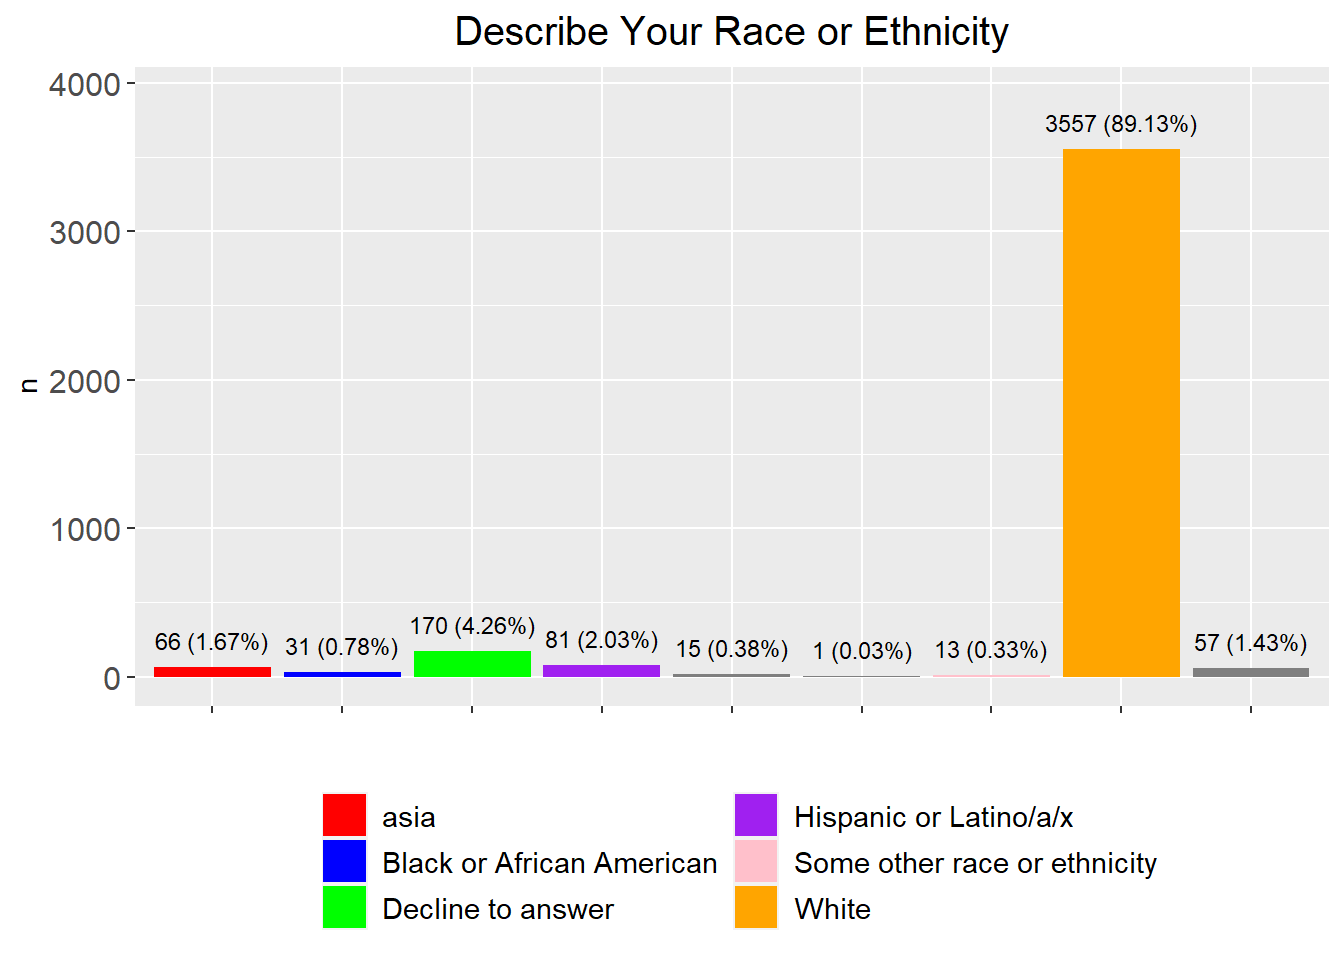
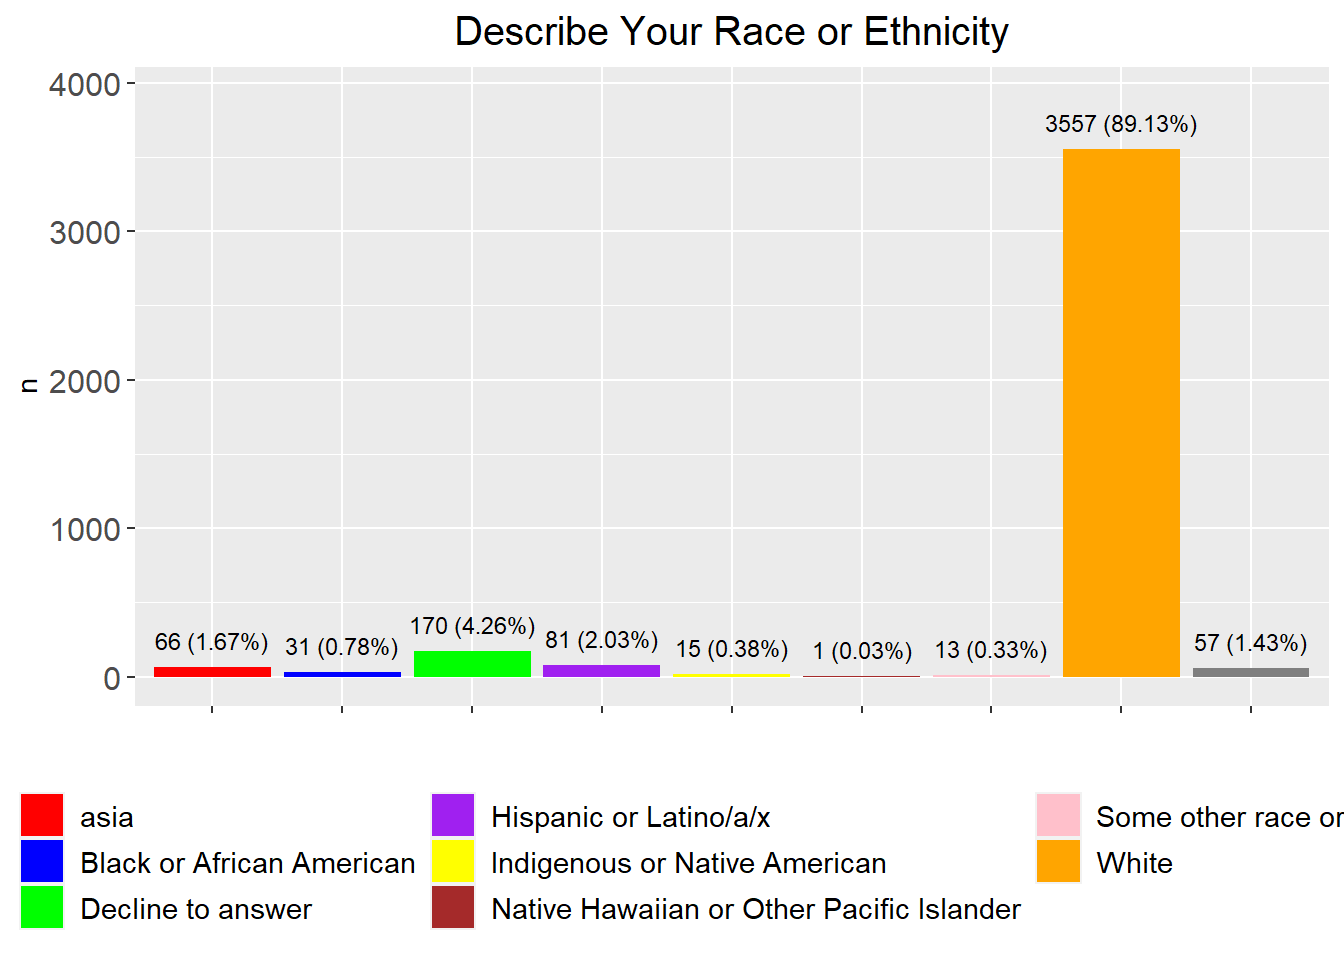
1/10/2025

Changed region(s): [[0.0, 0.8125, 1.0, 0.9688]]

diff --git a/docs/2024_0701_survey_part2.html b/docs/2024_0701_survey_part2.html
@@ -416,7 +416,7 @@ aria-hidden="true"></span> </a>
 <div class="tab-content">
 <div id="summary" class="tab-pane fade in active">
 <p>
-<strong>Last updated:</strong> 2025-01-08
+<strong>Last updated:</strong> 2025-01-10
 </p>
 <p>
 <strong>Checks:</strong> <span
@@ -550,15 +550,15 @@ project makes it easier to run your code on other machines.</p>
 <div class="panel panel-default">
 <div class="panel-heading">
 <p class="panel-title">
-<a data-toggle="collapse" data-parent="#workflowr-checks" href="#strongRepositoryversionstrongahrefhttpsgithubcomhan16Collaborationstreefe962788d596cc7b8bc2eed3f1c836c4f511facctargetblankfe96278a">
+<a data-toggle="collapse" data-parent="#workflowr-checks" href="#strongRepositoryversionstrongahrefhttpsgithubcomhan16Collaborationstree5993c9d48d632dda4a9aa40119dea4e136be8175targetblank5993c9da">
 <span class="glyphicon glyphicon-ok text-success"
 aria-hidden="true"></span> <strong>Repository version:</strong>
-<a href="https://github.com/han16/Collaborations/tree/fe962788d596cc7b8bc2eed3f1c836c4f511facc" target="_blank">fe96278</a>
+<a href="https://github.com/han16/Collaborations/tree/5993c9d48d632dda4a9aa40119dea4e136be8175" target="_blank">5993c9d</a>
 </a>
 </p>
 </div>
 <div
[2 lines of base64/hex data omitted]
 class="panel-collapse collapse">
 <div class="panel-body">
 <p>
@@ -568,7 +568,7 @@ reproducibility.
 </p>
 <p>
 The results in this page were generated with repository version
-<a href="https://github.com/han16/Collaborations/tree/fe962788d596cc7b8bc2eed3f1c836c4f511facc" target="_blank">fe96278</a>.
+<a href="https://github.com/han16/Collaborations/tree/5993c9d48d632dda4a9aa40119dea4e136be8175" target="_blank">5993c9d</a>.
 See the <em>Past versions</em> tab to see a history of the changes made
 to the R Markdown and HTML files.
 </p>
@@ -586,7 +586,6 @@ Ignored files:
     Ignored:    .Rhistory
     Ignored:    analysis/.Rhistory
     Ignored:    analysis/2022_Mar2_Marinho_cache/
-    Ignored:    analysis/figure/
 
 Unstaged changes:
     Modified:   analysis/2024_0701_survey_part2.Rmd
@@ -636,6 +635,40 @@ Message
 </tr>
 </thead>
 <tbody>
+<tr>
+<td>
+Rmd
+</td>
+<td>
+<a href="https://github.com/han16/Collaborations/blob/c5e3eaec814ccd5b8a0c7b9b15deb218d8a5bf2f/analysis/2024_0701_survey_part2.Rmd" target="_blank">c5e3eae</a>
+</td>
+<td>
+han
+</td>
+<td>
+2025-01-08
+</td>
+<td>
+1/8/2025
+</td>
+</tr>
+<tr>
+<td>
+html
+</td>
+<td>
+<a href="https://rawcdn.githack.com/han16/Collaborations/c5e3eaec814ccd5b8a0c7b9b15deb218d8a5bf2f/docs/2024_0701_survey_part2.html" target="_blank">c5e3eae</a>
+</td>
+<td>
+han
+</td>
+<td>
+2025-01-08
+</td>
+<td>
+1/8/2025
+</td>
+</tr>
 <tr>
 <td>
 Rmd
@@ -723,7 +756,7 @@ asia=c(&quot;East Asian&quot;, &quot;Filipino&quot;, &quot;Hmong&quot;, &quot;La
 asia_race= race %&gt;% filter(`Describe Your Race or Ethnicity` %in% asia)
 race_new=race %&gt;% filter(`Describe Your Race or Ethnicity` %in% asia==F) %&gt;% add_row(`Describe Your Race or Ethnicity`=&quot;asia&quot;, n=asia_race %&gt;% select(n) %&gt;% sum(), prop=asia_race %&gt;% select(prop) %&gt;% sum()) # combine south east asia countries into one unit 
 
-fig=plot_function(&quot;Describe Your Race or Ethnicity&quot;, race_new, legend_rows = 3, var_name = &quot;Describe Your Race or Ethnicity&quot;, custom_colors= c(&quot;asia&quot; = &quot;red&quot;, &quot;Black or African American&quot; = &quot;blue&quot;, &quot;Decline to answer&quot; = &quot;green&quot;, &quot;Hispanic or Latino/a/x&quot; = &quot;purple&quot;, &quot;other&quot;=&quot;brown&quot;, &quot;Some other race or ethnicity&quot;=&quot;pink&quot;, &quot;White&quot;=&quot;orange&quot;, &quot; &quot;=&quot;black&quot;))
+fig=plot_function(&quot;Describe Your Race or Ethnicity&quot;, race_new, legend_rows = 3, var_name = &quot;Describe Your Race or Ethnicity&quot;, custom_colors= c(&quot;asia&quot; = &quot;red&quot;, &quot;Black or African American&quot; = &quot;blue&quot;, &quot;Decline to answer&quot; = &quot;green&quot;, &quot;Hispanic or Latino/a/x&quot; = &quot;purple&quot;, &quot;Native Hawaiian or Other Pacific Islander&quot;=&quot;brown&quot;, &quot;Some other race or ethnicity&quot;=&quot;pink&quot;, &quot;White&quot;=&quot;orange&quot;, &quot;NA&quot;=&quot;black&quot;, &quot;Indigenous or Native American&quot;=&quot;yellow&quot;))
 
 fig</code></pre>
 <p><img src="figure/2024_0701_survey_part2.Rmd/unnamed-chunk-6-1.png" width="672" style="display: block; margin: auto;" /></p>
@@ -751,6 +784,17 @@ Date
 <tbody>
 <tr>
 <td>
+<a href="https://github.com/han16/Collaborations/blob/c5e3eaec814ccd5b8a0c7b9b15deb218d8a5bf2f/docs/figure/2024_0701_survey_part2.Rmd/unnamed-chunk-6-1.png" target="_blank">c5e3eae</a>
+</td>
+<td>
+han
+</td>
+<td>
+2025-01-08
+</td>
+</tr>
+<tr>
+<td>
 <a href="https://github.com/han16/Collaborations/blob/afbb9ccc5712b3826cdb1a3acc3dcba3f250e99c/docs/figure/2024_0701_survey_part2.Rmd/unnamed-chunk-6-1.png" target="_blank">afbb9cc</a>
 </td>
 <td>
@@ -764,7 +808,7 @@ han
 </table>
 </div>
 </div>
-<pre class="r"><code>fig=plot_function(&quot;Describe Your Race or Ethnicity (without White)&quot;, race_new %&gt;% filter(`Describe Your Race or Ethnicity`!=&quot;White&quot;), legend_rows = 3, var_name = &quot;Describe Your Race or Ethnicity&quot;, custom_colors= c(&quot;asia&quot; = &quot;red&quot;, &quot;Black or African American&quot; = &quot;blue&quot;, &quot;Decline to answer&quot; = &quot;green&quot;, &quot;Hispanic or Latino/a/x&quot; = &quot;purple&quot;, &quot;other&quot;=&quot;brown&quot;, &quot;Some other race or ethnicity&quot;=&quot;pink&quot;, &quot;White&quot;=&quot;orange&quot;, &quot; &quot;=&quot;black&quot;))
+<pre class="r"><code>fig=plot_function(&quot;Describe Your Race or Ethnicity (without White)&quot;, race_new %&gt;% filter(`Describe Your Race or Ethnicity`!=&quot;White&quot;), legend_rows = 3, var_name = &quot;Describe Your Race or Ethnicity&quot;, custom_colors= c(&quot;asia&quot; = &quot;red&quot;, &quot;Black or African American&quot; = &quot;blue&quot;, &quot;Decline to answer&quot; = &quot;green&quot;, &quot;Hispanic or Latino/a/x&quot; = &quot;purple&quot;, &quot;Native Hawaiian or Other Pacific Islander&quot;=&quot;brown&quot;, &quot;Some other race or ethnicity&quot;=&quot;pink&quot;, &quot;White&quot;=&quot;orange&quot;, &quot; &quot;=&quot;black&quot;, &quot;Indigenous or Native American&quot;=&quot;yellow&quot;))
 
 fig</code></pre>
 <p><img src="figure/2024_0701_survey_part2.Rmd/unnamed-chunk-6-2.png" width="672" style="display: block; margin: auto;" /></p>
@@ -790,6 +834,17 @@ Date
 </tr>
 </thead>
 <tbody>
+<tr>
+<td>
+<a href="https://github.com/han16/Collaborations/blob/c5e3eaec814ccd5b8a0c7b9b15deb218d8a5bf2f/docs/figure/2024_0701_survey_part2.Rmd/unnamed-chunk-6-2.png" target="_blank">c5e3eae</a>
+</td>
+<td>
+han
+</td>
+<td>
+2025-01-08
+</td>
+</tr>
 <tr>
 <td>
 <a href="https://github.com/han16/Collaborations/blob/afbb9ccc5712b3826cdb1a3acc3dcba3f250e99c/docs/figure/2024_0701_survey_part2.Rmd/unnamed-chunk-6-2.png" target="_blank">afbb9cc</a>
@@ -829,9 +884,83 @@ datatable(extensions = &#39;Buttons&#39;,
 fig=plot_function(&quot;Gender Identity&quot;, gender, legend_rows=2, var_name = &quot;Gender Identity&quot;, num_size = 4, custom_colors= c(&quot;Woman&quot; = &quot;red&quot;,&quot;Man&quot;=&quot;blue&quot;, &quot;Decline to answer&quot; = &quot;green&quot;, &quot;Nonbinary&quot;=&quot;pink&quot;, &quot;Option not listed above&quot;=&quot;black&quot;))
 fig</code></pre>
 <p><img src="figure/2024_0701_survey_part2.Rmd/unnamed-chunk-7-1.png" width="672" style="display: block; margin: auto;" /></p>
+<p>
+<button type="button" class="btn btn-default btn-xs btn-workflowr btn-workflowr-fig" data-toggle="collapse" data-target="#fig-unnamed-chunk-7-1">
+Past versions of unnamed-chunk-7-1.png
+</button>
+</p>
+<div id="fig-unnamed-chunk-7-1" class="collapse">
+<div class="table-responsive">
+<table class="table table-condensed table-hover">
+<thead>
+<tr>
+<th>
+Version
+</th>
+<th>
+Author
+</th>
+<th>
+Date
+</th>
+</tr>
+</thead>
+<tbody>
+<tr>
+<td>
+<a href="https://github.com/han16/Collaborations/blob/c5e3eaec814ccd5b8a0c7b9b15deb218d8a5bf2f/docs/figure/2024_0701_survey_part2.Rmd/unnamed-chunk-7-1.png" target="_blank">c5e3eae</a>
+</td>
+<td>
+han
+</td>
+<td>
+2025-01-08
+</td>
+</tr>
+</tbody>
+</table>
+</div>
+</div>
 <pre class="r"><code>fig=plot_function(&quot;Gender Identity (without Woman)&quot;, gender %&gt;% filter(`Gender Identity`!=&quot;Woman&quot;), legend_rows=2, var_name = &quot;Gender Identity&quot;, num_size = 4, custom_colors= c(&quot;Woman&quot; = &quot;red&quot;,&quot;Man&quot;=&quot;blue&quot;, &quot;Decline to answer&quot; = &quot;green&quot;, &quot;Nonbinary&quot;=&quot;pink&quot;, &quot;Option not listed above&quot;=&quot;black&quot;))
 fig</code></pre>
 <p><img src="figure/2024_0701_survey_part2.Rmd/unnamed-chunk-7-2.png" width="672" style="display: block; margin: auto;" /></p>
+<p>
+<button type="button" class="btn btn-default btn-xs btn-workflowr btn-workflowr-fig" data-toggle="collapse" data-target="#fig-unnamed-chunk-7-2">
+Past versions of unnamed-chunk-7-2.png
+</button>
+</p>
+<div id="fig-unnamed-chunk-7-2" class="collapse">
+<div class="table-responsive">
+<table class="table table-condensed table-hover">
+<thead>
+<tr>
+<th>
+Version
+</th>
+<th>
+Author
+</th>
+<th>
+Date
+</th>
+</tr>
+</thead>
+<tbody>
+<tr>
+<td>
+<a href="https://github.com/han16/Collaborations/blob/c5e3eaec814ccd5b8a0c7b9b15deb218d8a5bf2f/docs/figure/2024_0701_survey_part2.Rmd/unnamed-chunk-7-2.png" target="_blank">c5e3eae</a>
+</td>
+<td>
+han
+</td>
+<td>
+2025-01-08
+</td>
+</tr>
+</tbody>
+</table>
+</div>
+</div>
 <pre class="r"><code>gender %&gt;% arrange(desc(n)) %&gt;%
 datatable(extensions = &#39;Buttons&#39;,
           caption = &quot;&quot;,
@@ -882,6 +1011,43 @@ gender_geo_data=gender_geo_data %&gt;% mutate(prop=round(prop,4))
 fig=side_by_side_barplot(gender_geo_data, angle=30, num_size = 3, x_text_size=12, legend_text_size=12, title=&quot;Hygenist&quot;, custom_colors=c(&quot;Man&quot;=&quot;blue&quot;, &quot;Woman&quot;=&quot;red&quot;))
 fig</code></pre>
 <p><img src="figure/2024_0701_survey_part2.Rmd/unnamed-chunk-11-1.png" width="672" style="display: block; margin: auto;" /></p>
+<p>
+<button type="button" class="btn btn-default btn-xs btn-workflowr btn-workflowr-fig" data-toggle="collapse" data-target="#fig-unnamed-chunk-11-1">
+Past versions of unnamed-chunk-11-1.png
+</button>
+</p>
+<div id="fig-unnamed-chunk-11-1" class="collapse">
+<div class="table-responsive">
+<table class="table table-condensed table-hover">
+<thead>
+<tr>
+<th>
+Version
+</th>
+<th>
+Author
+</th>
+<th>
+Date
+</th>
+</tr>
+</thead>
+<tbody>
+<tr>
+<td>
+<a href="https://github.com/han16/Collaborations/blob/c5e3eaec814ccd5b8a0c7b9b15deb218d8a5bf2f/docs/figure/2024_0701_survey_part2.Rmd/unnamed-chunk-11-1.png" target="_blank">c5e3eae</a>
+</td>
+<td>
+han
+</td>
+<td>
+2025-01-08
+</td>
+</tr>
+</tbody>
+</table>
+</div>
+</div>
 <pre class="r"><code>gender_geo_data%&gt;% 
 datatable(extensions = &#39;Buttons&#39;,
           caption = &quot;Hygienist&quot;,
